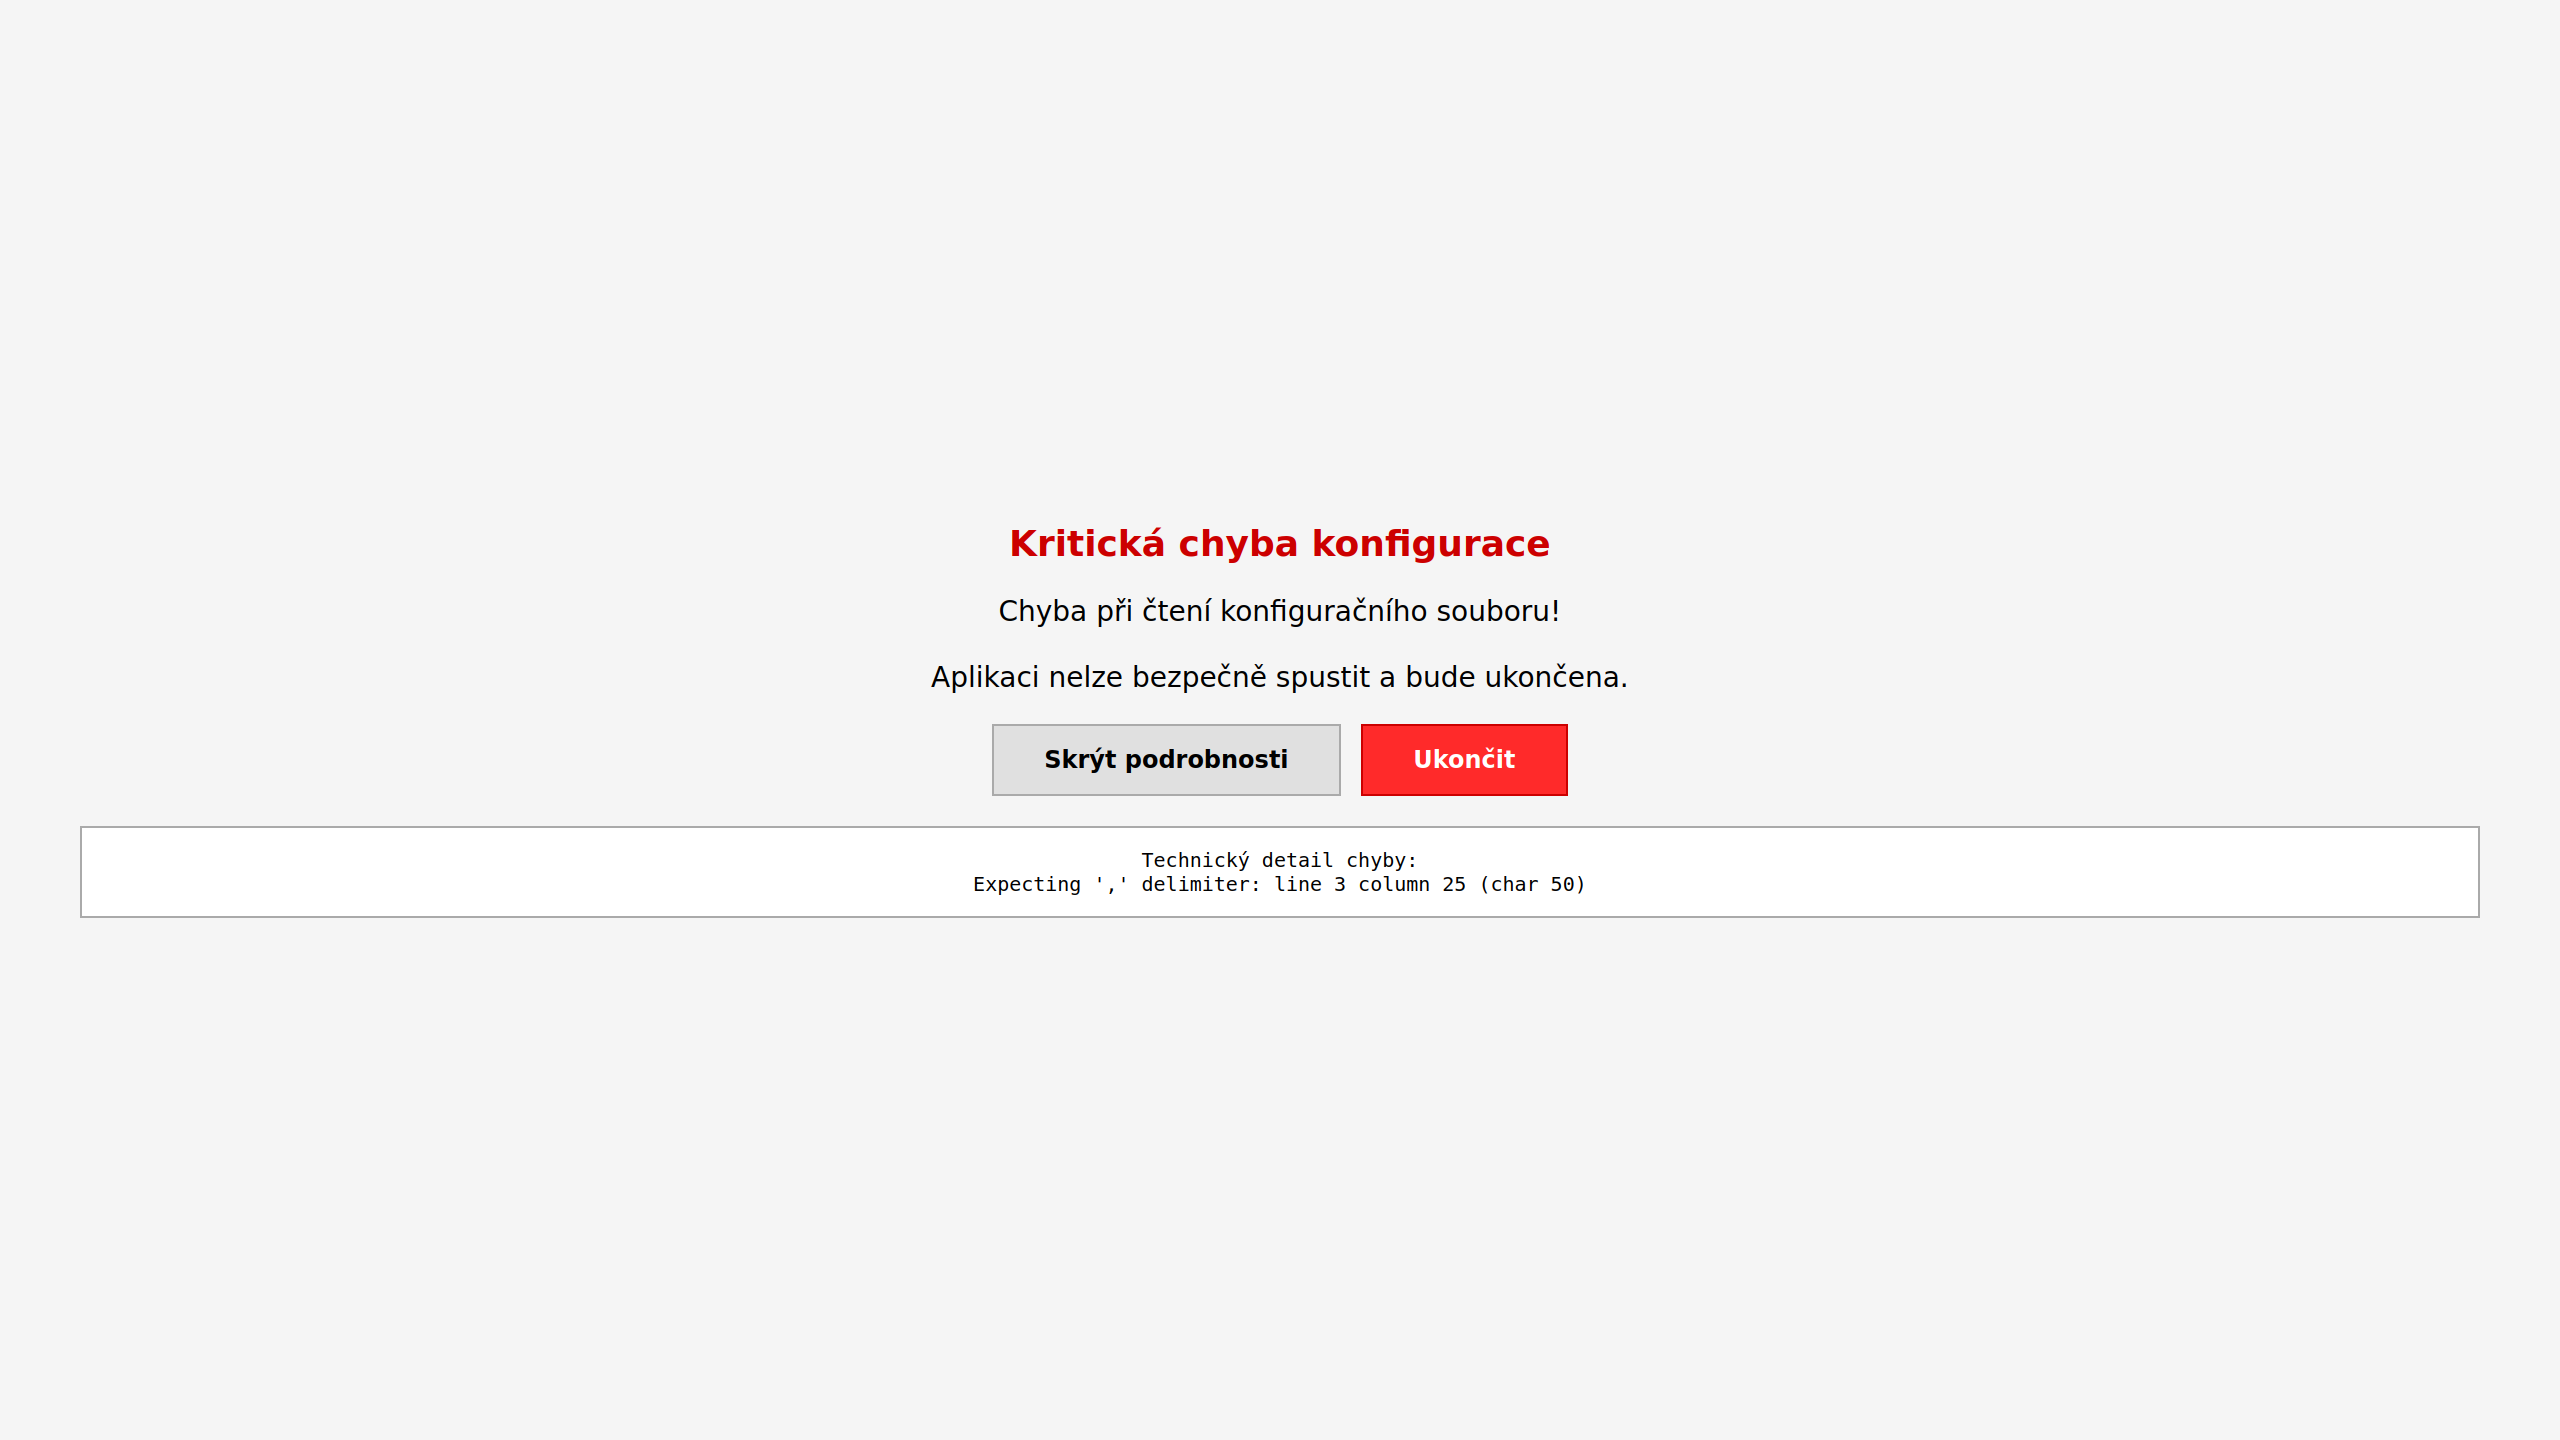
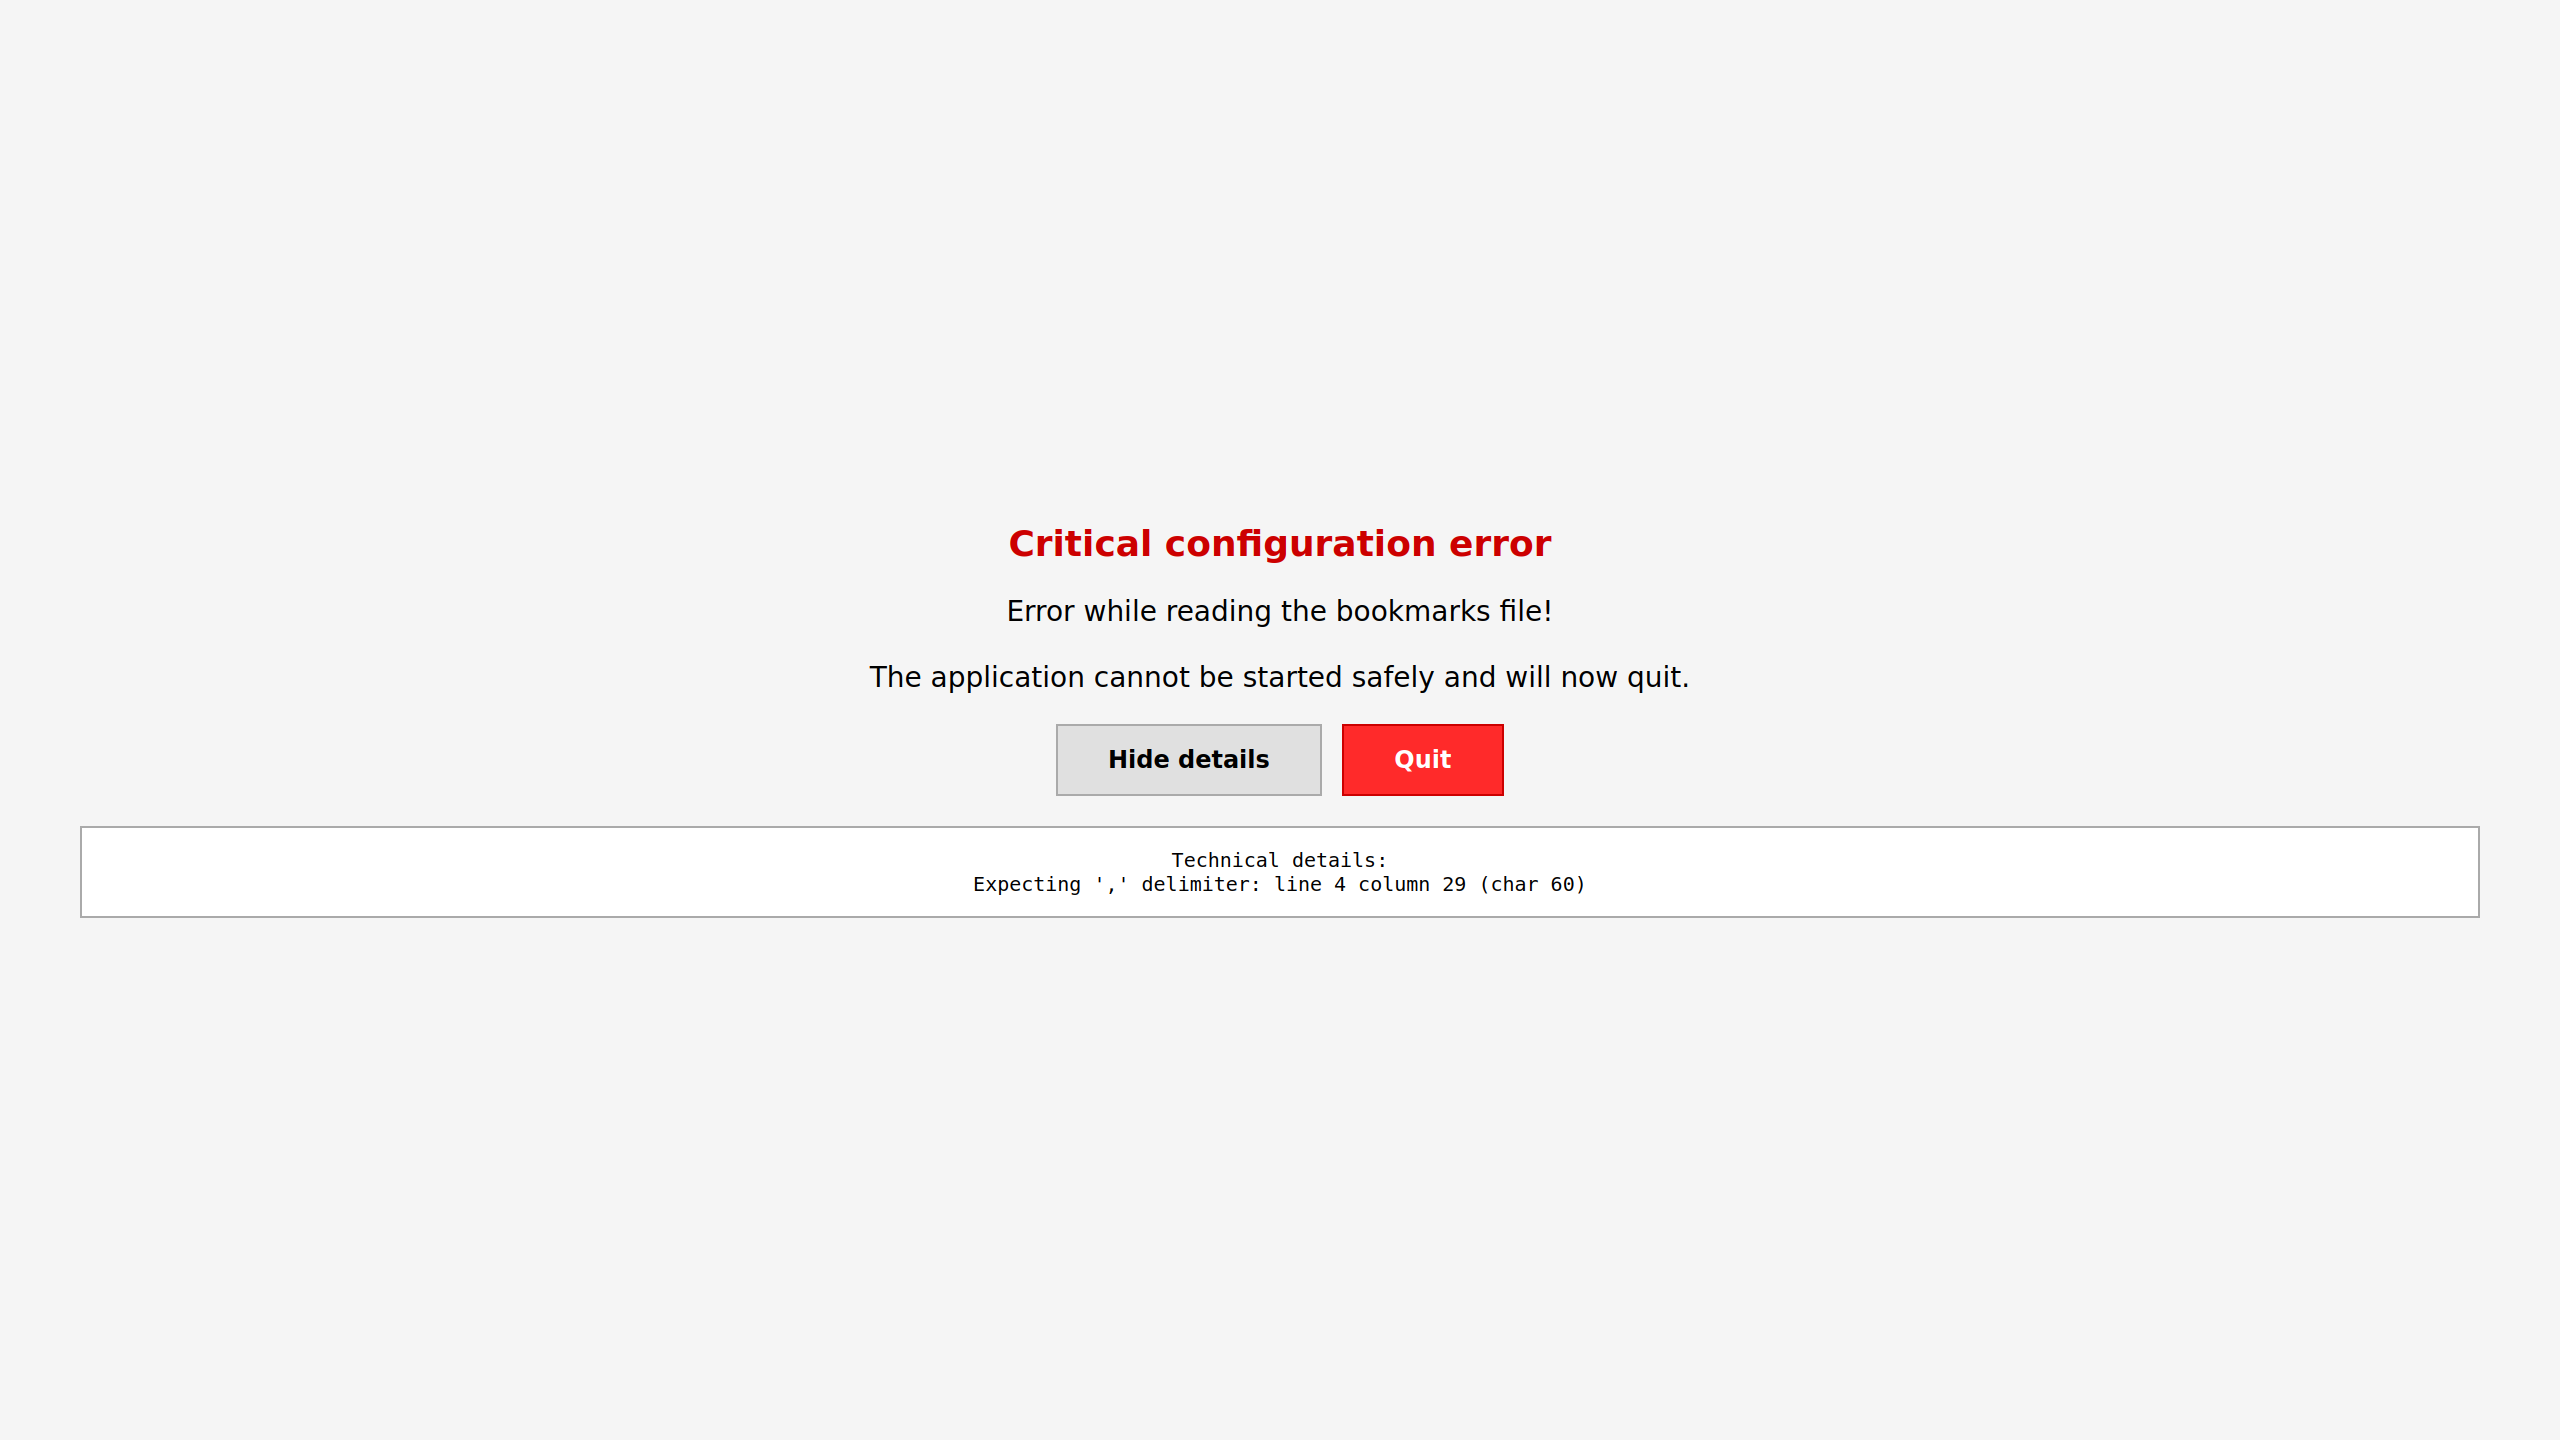
updated readme and visuals

Changed region(s): [[0.3438, 0.4688, 0.6562, 0.5625], [0.375, 0.3438, 0.625, 0.4375], [0.4375, 0.5938, 0.5625, 0.625]]

diff --git a/README.md b/README.md
@@ -5,7 +5,7 @@
 **Sweb** is a modular and accessible web browser designed specifically for seniors. Developed as part of a diploma thesis at the Faculty of Electrical Engineering and Communication, Brno University of Technology, the application is built with Python, PyQt6, and QtWebEngine. The browser focuses on eliminating common frustrations older adults face when navigating the modern web by providing a distraction-free, simplified, and safe environment.
 
 ## 🌟 Key Features
-* **Simplified Interface:** Large, clearly labeled buttons and an intuitive navigation bar tailored for reduced motor precision.
+* **Simplified Interface:** Large icon-only buttons and an intuitive navigation bar tailored for reduced motor precision. The interface contains no text, so it needs no translation.
 * **Kiosk Mode:** Fullscreen, frameless window execution prevents accidental application minimization, resizing, or exits.
 * **Built-in AdBlock:** An automatic network-level interceptor that blocks ads and tracking scripts, ensuring a clean reading experience and preventing core render crashes on heavy sites.
 * **Modular Architecture:** An extensible plugin system (`module_manager`) for easily integrating background features (like AdBlock) and UI extensions (like Magnifier (TBA)).
@@ -22,12 +22,13 @@ The browser is fully customizable via JSON files, keeping user data and preferen
 
 | Key | Default | Description |
 |-----|---------|-------------|
-| `ui_font_size` | `24` | Font size (in `px`) of button labels in the navigation bar. |
+| `ui_font_size` | `24` | Font size (in `px`) of UI text (error dialog). |
 | `web_zoom_factor` | `1.5` | Default zoom level for web pages (`1.0` = 100%, `1.5` = 150%). |
 | `color_theme` | `"default"` | Visual theme of the navigation bar: `"default"` or `"high_contrast"`. |
 | `home_url` | `"https://www.seznam.cz"` | Initial page loaded on startup and when navigating home. |
 | `search_url` | `"https://search.seznam.cz/?q={}"` | Search engine URL template (`{}` is replaced with the URL-encoded query). |
 | `search_button_position` | `"after"` | Position of the Search button in Menu 2 relative to bookmarks: `"before"` or `"after"`. |
+| `nav_height_ratio` | `0.12` | Navigation bar height as a fraction of screen height. |
 
 Example `config.json`:
 ```json
@@ -37,7 +38,8 @@ Example `config.json`:
     "color_theme": "default",
     "home_url": "https://www.seznam.cz",
     "search_url": "https://search.seznam.cz/?q={}",
-    "search_button_position": "after"
+    "search_button_position": "after",
+    "nav_height_ratio": 0.12
 }
 ```
 
